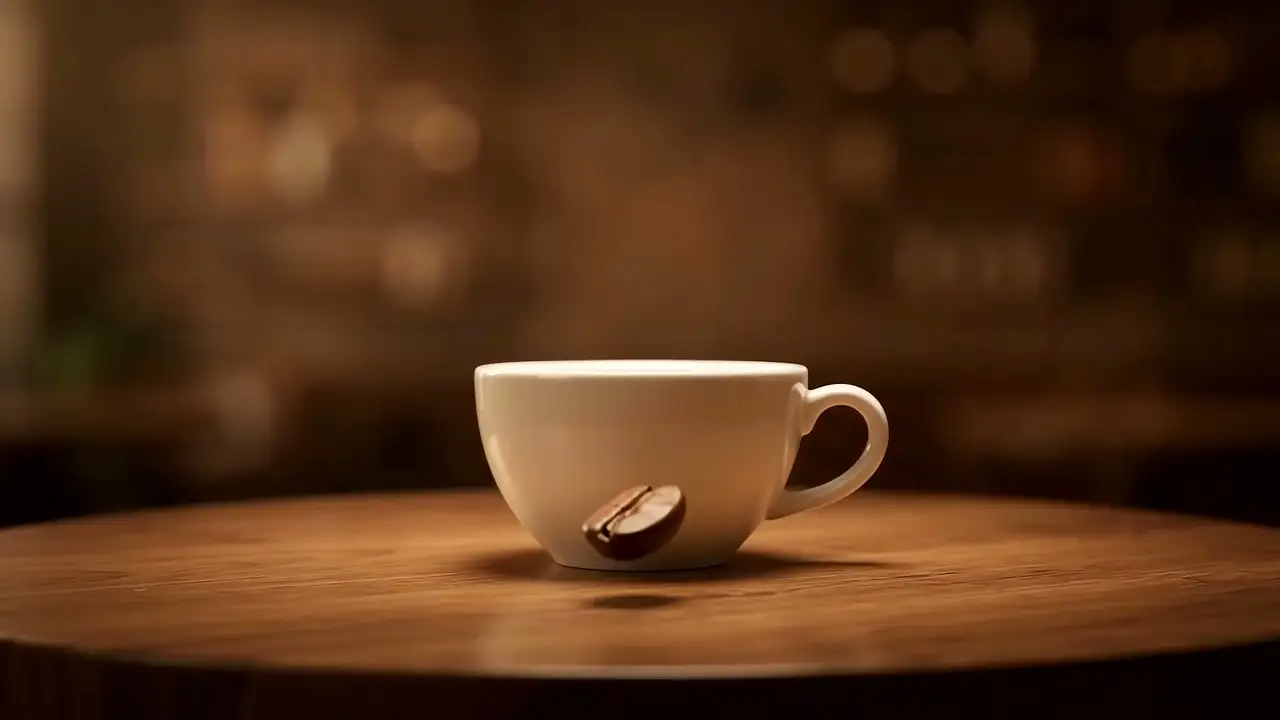
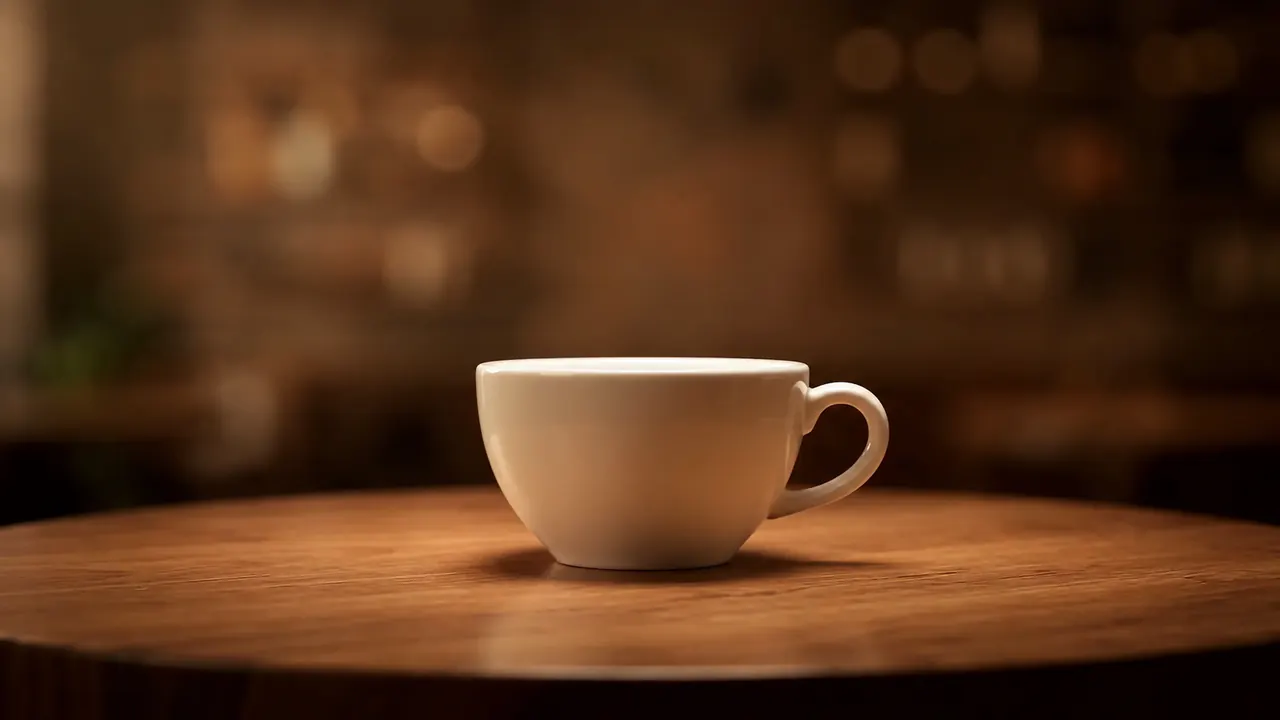
final bean hero to scroll

diff --git a/src/components/BeanHandoff.tsx b/src/components/BeanHandoff.tsx
@@ -9,6 +9,11 @@ export const BEAN_HANDOFF_START_ID = 'bean-handoff-start';
 export const BEAN_HANDOFF_END_ID = 'bean-handoff-end';
 
 const SECTION_ATTR = '[data-bean-handoff-section]';
+/** Frame index where the film bean first appears (0-based → frame-002). */
+const FILM_BEAN_FRAME = 1;
+const DISSOLVE_MS = 160;
+/** Final tilt (deg) when parked — match the film bean in frame-002. */
+const HANDOFF_SETTLE_ROTATE_DEG = 32;
 
 function clamp(n: number, min = 0, max = 1) {
   return Math.min(max, Math.max(min, n));
@@ -23,14 +28,16 @@ function easeOutCubic(t: number) {
 }
 
 /**
- * Soft continuity: hero bean lifts on a curved path into the scroll story, then dissolves.
- * Progress is driven by the scroll section entering the viewport (0 → pinned).
+ * Soft continuity: hero bean flies into the empty start frame, holds on the cup,
+ * then dissolves the moment the film advances to frame 2 (bean appears in-frame).
  */
 export default function BeanHandoff() {
   const tier = useDevicePerformance();
   const [mounted, setMounted] = useState(false);
   const flyerRef = useRef<HTMLDivElement>(null);
   const rafRef = useRef<number | null>(null);
+  const dissolveRafRef = useRef<number | null>(null);
+  const dissolveStartedAtRef = useRef<number | null>(null);
   const enabled = tier !== 'low';
 
   useEffect(() => {
@@ -43,6 +50,13 @@ export default function BeanHandoff() {
     const root = document.documentElement;
     const prefersReduced = window.matchMedia('(prefers-reduced-motion: reduce)');
 
+    const stopDissolveLoop = () => {
+      if (dissolveRafRef.current !== null) {
+        cancelAnimationFrame(dissolveRafRef.current);
+        dissolveRafRef.current = null;
+      }
+    };
+
     const sync = () => {
       const flyer = flyerRef.current;
 
@@ -50,6 +64,8 @@ export default function BeanHandoff() {
         root.style.setProperty('--bean-hero-opacity', '1');
         root.style.setProperty('--bean-canvas-reveal', '1');
         if (flyer) flyer.style.opacity = '0';
+        dissolveStartedAtRef.current = null;
+        stopDissolveLoop();
         return;
       }
 
@@ -79,7 +95,7 @@ export default function BeanHandoff() {
 
       const startSize = Math.max(startRect.width, startRect.height);
       const endSize = Math.max(endRect.width, endRect.height);
-      // Slight overshoot mid-flight, settle on the film bean size
+      // Settle to film-bean size; slight overshoot mid-flight
       const grow = startSize + (endSize - startSize) * sizeP;
       const pulse = 1 + Math.sin(raw * Math.PI) * 0.08;
       const size = grow * pulse;
@@ -99,16 +115,45 @@ export default function BeanHandoff() {
 
       const heroOpacity = clamp(1 - raw / 0.05);
 
-      // Hold the flyer until the film is ready, then dissolve on contact
       const filmReady = section.getAttribute('data-bean-film-ready') === 'true';
-      const dissolveStart = filmReady ? 0.86 : 1.05;
-      const dissolve = clamp((raw - dissolveStart) / 0.14);
+      const frameIndex = Number(section.getAttribute('data-bean-frame') || '0');
+      const filmHasBean = filmReady && frameIndex >= FILM_BEAN_FRAME;
+
+      // Hold on the empty cup until frame 2; then soft-dissolve into the film bean
+      if (filmHasBean) {
+        if (dissolveStartedAtRef.current === null) {
+          dissolveStartedAtRef.current = performance.now();
+        }
+      } else {
+        dissolveStartedAtRef.current = null;
+        stopDissolveLoop();
+      }
+
+      const dissolveElapsed =
+        dissolveStartedAtRef.current === null
+          ? 0
+          : performance.now() - dissolveStartedAtRef.current;
+      const dissolve = filmHasBean ? clamp(dissolveElapsed / DISSOLVE_MS) : 0;
+
+      // Keep ticking through the short dissolve even if scroll stops
+      if (filmHasBean && dissolve < 1) {
+        if (dissolveRafRef.current === null) {
+          dissolveRafRef.current = requestAnimationFrame(() => {
+            dissolveRafRef.current = null;
+            sync();
+          });
+        }
+      } else {
+        stopDissolveLoop();
+      }
+
       const flyerOpacity =
         raw < 0.02 ? 0 : clamp(1 - dissolve) * clamp(raw / 0.05);
       const blur = dissolve * 8;
 
-      // Gentle tumble that settles near the film bean's pose
-      const rotate = Math.sin(p * Math.PI) * 16 + p * 4;
+      // Gentle tumble that settles to the film bean's tilt
+      const rotate =
+        Math.sin(p * Math.PI) * 14 + p * HANDOFF_SETTLE_ROTATE_DEG;
 
       root.style.setProperty('--bean-hero-opacity', String(heroOpacity));
       root.style.setProperty('--bean-canvas-reveal', '1');
@@ -140,7 +185,7 @@ export default function BeanHandoff() {
     window.addEventListener('resize', onScroll);
     prefersReduced.addEventListener('change', sync);
 
-    // Re-sync when the film finishes loading (attribute flips on the section)
+    // Re-sync when film ready / frame index flips
     const sectionEl = document.querySelector(SECTION_ATTR);
     const mo =
       sectionEl &&
@@ -150,7 +195,7 @@ export default function BeanHandoff() {
     if (sectionEl && mo) {
       mo.observe(sectionEl, {
         attributes: true,
-        attributeFilter: ['data-bean-film-ready'],
+        attributeFilter: ['data-bean-film-ready', 'data-bean-frame'],
       });
     }
 
@@ -161,6 +206,7 @@ export default function BeanHandoff() {
       prefersReduced.removeEventListener('change', sync);
       mo?.disconnect();
       if (rafRef.current !== null) cancelAnimationFrame(rafRef.current);
+      stopDissolveLoop();
       root.style.removeProperty('--bean-hero-opacity');
       root.style.removeProperty('--bean-canvas-reveal');
     };

diff --git a/src/components/ScrollAnimation.tsx b/src/components/ScrollAnimation.tsx
@@ -8,6 +8,17 @@ import LoadingScreen from './LoadingScreen';
 
 const MAX_DPR = 1.5;
 
+/**
+ * Flying hero-bean landing spot — align with the bean in frame-002.
+ * Edit these two numbers only (percent of the sticky full-screen canvas):
+ *   leftPct → 50 = center, lower = more left
+ *   topPct  → higher = further down
+ */
+const HANDOFF_END = {
+  leftPct: 50,
+  topPct: 70,
+} as const;
+
 function ScrollAnimationContent({
   tier,
 }: {
@@ -16,6 +27,7 @@ function ScrollAnimationContent({
   const { loadedFrames, progress, isReady, loadedCount, totalFrames, config } =
     useFramePreloader(tier);
 
+  const sectionRef = useRef<HTMLElement>(null);
   const containerRef = useRef<HTMLDivElement>(null);
   const textOpacity = useMotionValue(1);
 
@@ -74,6 +86,13 @@ function ScrollAnimationContent({
     return true;
   }, []);
 
+  const publishFrameIndex = useCallback((frameIndex: number) => {
+    const section = sectionRef.current;
+    if (!section) return;
+    if (section.getAttribute('data-bean-frame') === String(frameIndex)) return;
+    section.setAttribute('data-bean-frame', String(frameIndex));
+  }, []);
+
   const drawFrame = useCallback(
     (frameIndex: number) => {
       const canvas = canvasRef.current;
@@ -112,8 +131,9 @@ function ScrollAnimationContent({
       ctx.fillRect(0, 0, width, height);
       ctx.drawImage(frame, offsetX, offsetY, drawWidth, drawHeight);
       frameIndexRef.current = frameIndex;
+      publishFrameIndex(frameIndex);
     },
-    [findNearestFrame]
+    [findNearestFrame, publishFrameIndex]
   );
 
   const scheduleDraw = useCallback(
@@ -215,10 +235,12 @@ function ScrollAnimationContent({
 
   return (
     <section
+      ref={sectionRef}
       className="relative w-full bg-espresso"
       aria-label="Coffee crafting animation"
       data-bean-handoff-section
       data-bean-film-ready={isReady ? 'true' : 'false'}
+      data-bean-frame="0"
     >
       <LoadingScreen
         progress={progress}
@@ -249,10 +271,14 @@ function ScrollAnimationContent({
             aria-hidden="true"
           />
 
-          {/* Soft handoff target — meet the film bean near the cup base, then dissolve */}
+          {/* Handoff target — tweak HANDOFF_END at top of this file */}
           <div
             id="bean-handoff-end"
-            className="pointer-events-none absolute left-1/2 top-[78%] z-[5] h-24 w-24 -translate-x-1/2 -translate-y-1/2 sm:h-28 sm:w-28 md:h-32 md:w-32"
+            className="pointer-events-none absolute z-[5] h-20 w-20 -translate-x-1/2 -translate-y-1/2 sm:h-24 sm:w-24 md:h-28 md:w-28"
+            style={{
+              left: `${HANDOFF_END.leftPct}%`,
+              top: `${HANDOFF_END.topPct}%`,
+            }}
             aria-hidden="true"
           />
 

diff --git a/scripts/replace-start-frame.js b/scripts/replace-start-frame.js
@@ -1,0 +1,62 @@
+import fs from 'fs';
+import path from 'path';
+import { fileURLToPath } from 'url';
+import sharp from 'sharp';
+
+/**
+ * Replaces scroll-story frame-001 with a custom empty-cup start image
+ * so the hero bean handoff lands on a clean first frame (no double bean).
+ *
+ * Usage:
+ *   node scripts/replace-start-frame.js
+ *   node scripts/replace-start-frame.js path/to/start.png
+ */
+
+const __dirname = path.dirname(fileURLToPath(import.meta.url));
+const ROOT = path.resolve(__dirname, '..');
+const DEFAULT_SRC = path.resolve(ROOT, '../start.png');
+
+const TARGETS = [
+  { out: path.join(ROOT, 'public/frames/frame-001.webp'), width: 1920, height: 1080, quality: 82 },
+  { out: path.join(ROOT, 'public/frames-mid/frame-001.webp'), width: 1280, height: 720, quality: 78 },
+  { out: path.join(ROOT, 'public/images/scroll-start.webp'), width: 1920, height: 1080, quality: 82 },
+];
+
+async function convert(src, { out, width, height, quality }) {
+  await fs.promises.mkdir(path.dirname(out), { recursive: true });
+
+  await sharp(src)
+    .resize({
+      width,
+      height,
+      fit: 'cover',
+      position: 'centre',
+    })
+    .webp({ quality, effort: 6, smartSubsample: true })
+    .toFile(out);
+
+  const kb = (fs.statSync(out).size / 1024).toFixed(1);
+  console.log(`  ${path.relative(ROOT, out)} → ${width}x${height} @ q${quality} (${kb} KB)`);
+}
+
+async function main() {
+  const src = path.resolve(process.argv[2] || DEFAULT_SRC);
+
+  if (!fs.existsSync(src)) {
+    throw new Error(`Start image not found: ${src}`);
+  }
+
+  const meta = await sharp(src).metadata();
+  console.log(`Source: ${src} (${meta.width}x${meta.height}, ${meta.format})`);
+
+  for (const target of TARGETS) {
+    await convert(src, target);
+  }
+
+  console.log('Done — frame-001 updated for high + mid tiers.');
+}
+
+main().catch((err) => {
+  console.error(err);
+  process.exit(1);
+});

diff --git a/scripts/optimize-frames.js b/scripts/optimize-frames.js
@@ -1,5 +1,6 @@
 import fs from 'fs';
 import path from 'path';
+import { spawnSync } from 'child_process';
 import { fileURLToPath } from 'url';
 import sharp from 'sharp';
 
@@ -92,6 +93,18 @@ async function optimizeFrames() {
   console.log('\n--- Summary ---');
   console.log(`High: ${highCount} frames @ max ${HIGH.maxWidth}px → public/frames`);
   console.log(`Mid:  ${midCount} frames @ max ${MID.maxWidth}px → public/frames-mid`);
+
+  // Keep the empty-cup start frame if the source exists (avoids double-bean on handoff)
+  const startSrc = path.resolve(ROOT, '../start.png');
+  if (fs.existsSync(startSrc)) {
+    console.log('\nRe-applying custom start frame…');
+    const result = spawnSync(process.execPath, [path.join(__dirname, 'replace-start-frame.js'), startSrc], {
+      stdio: 'inherit',
+    });
+    if (result.status !== 0) {
+      throw new Error('replace-start-frame failed');
+    }
+  }
 }
 
 optimizeFrames().catch((err) => {
